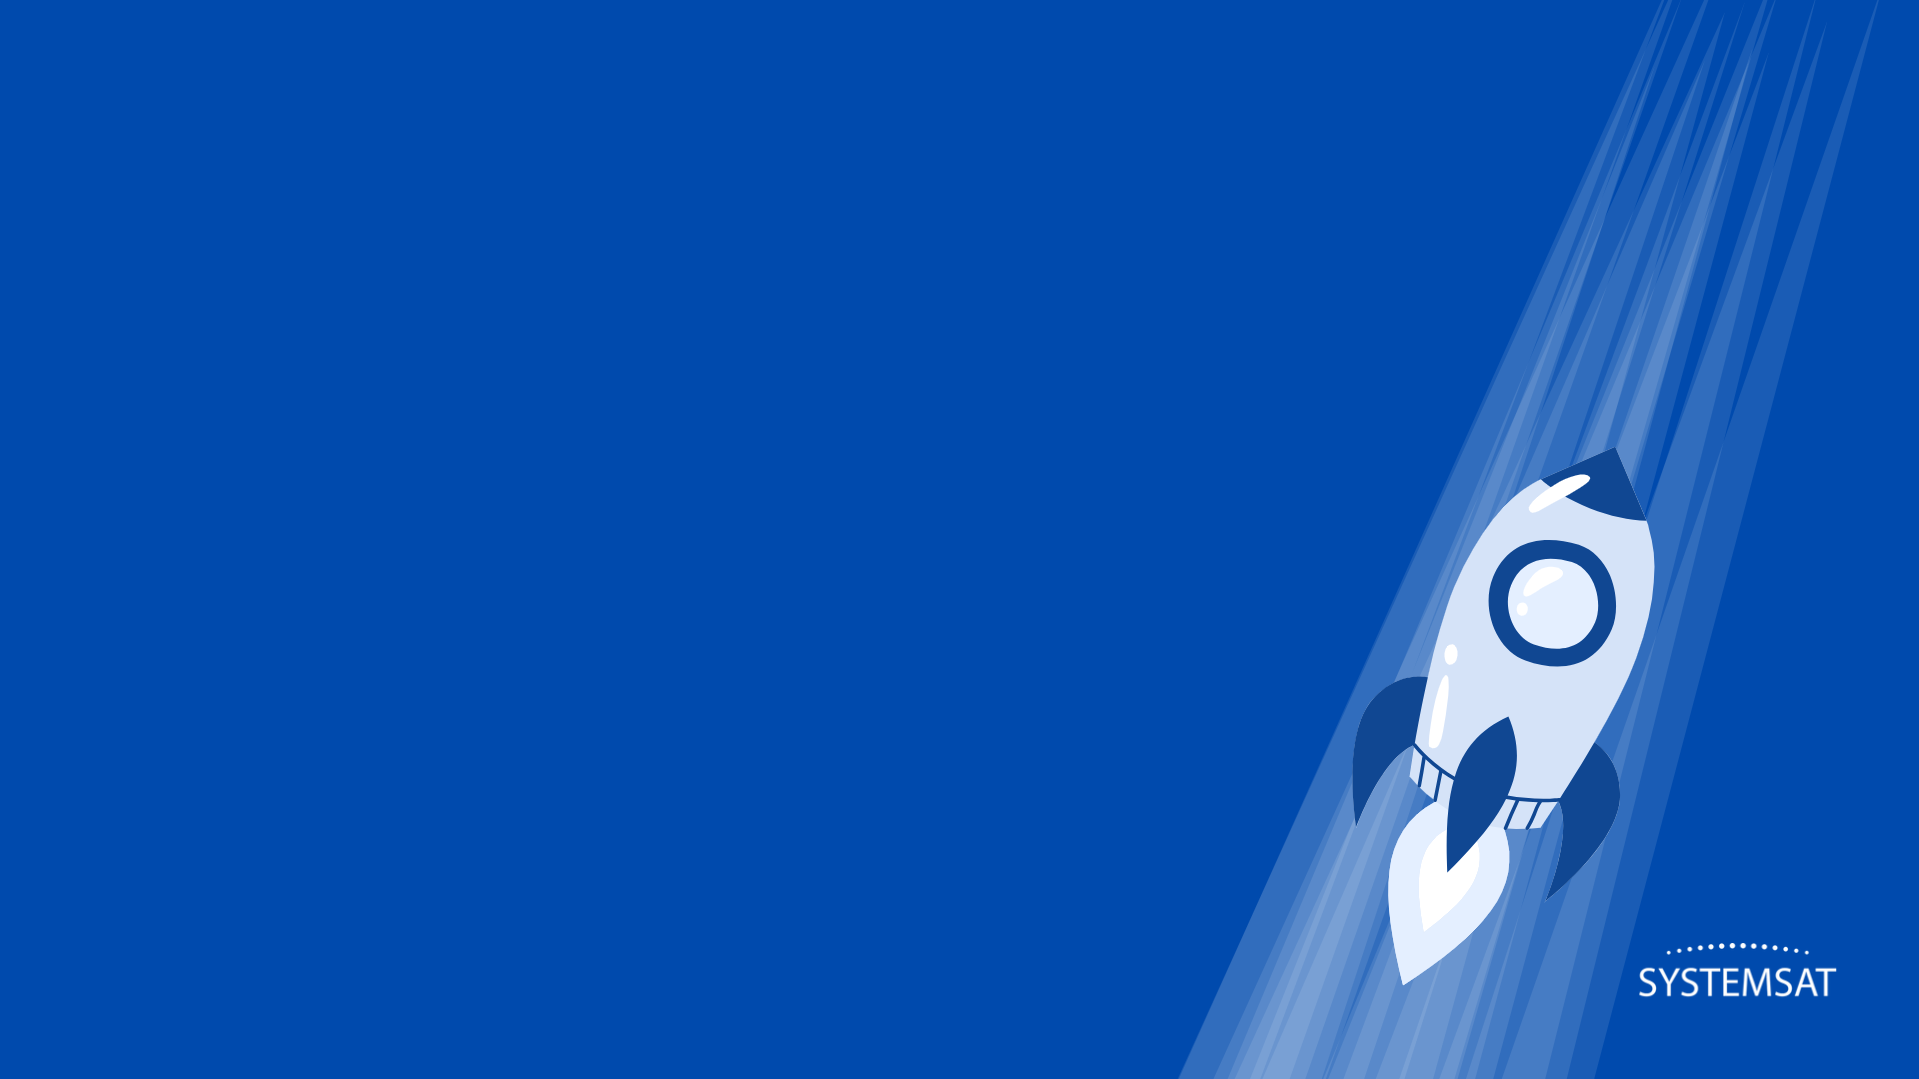
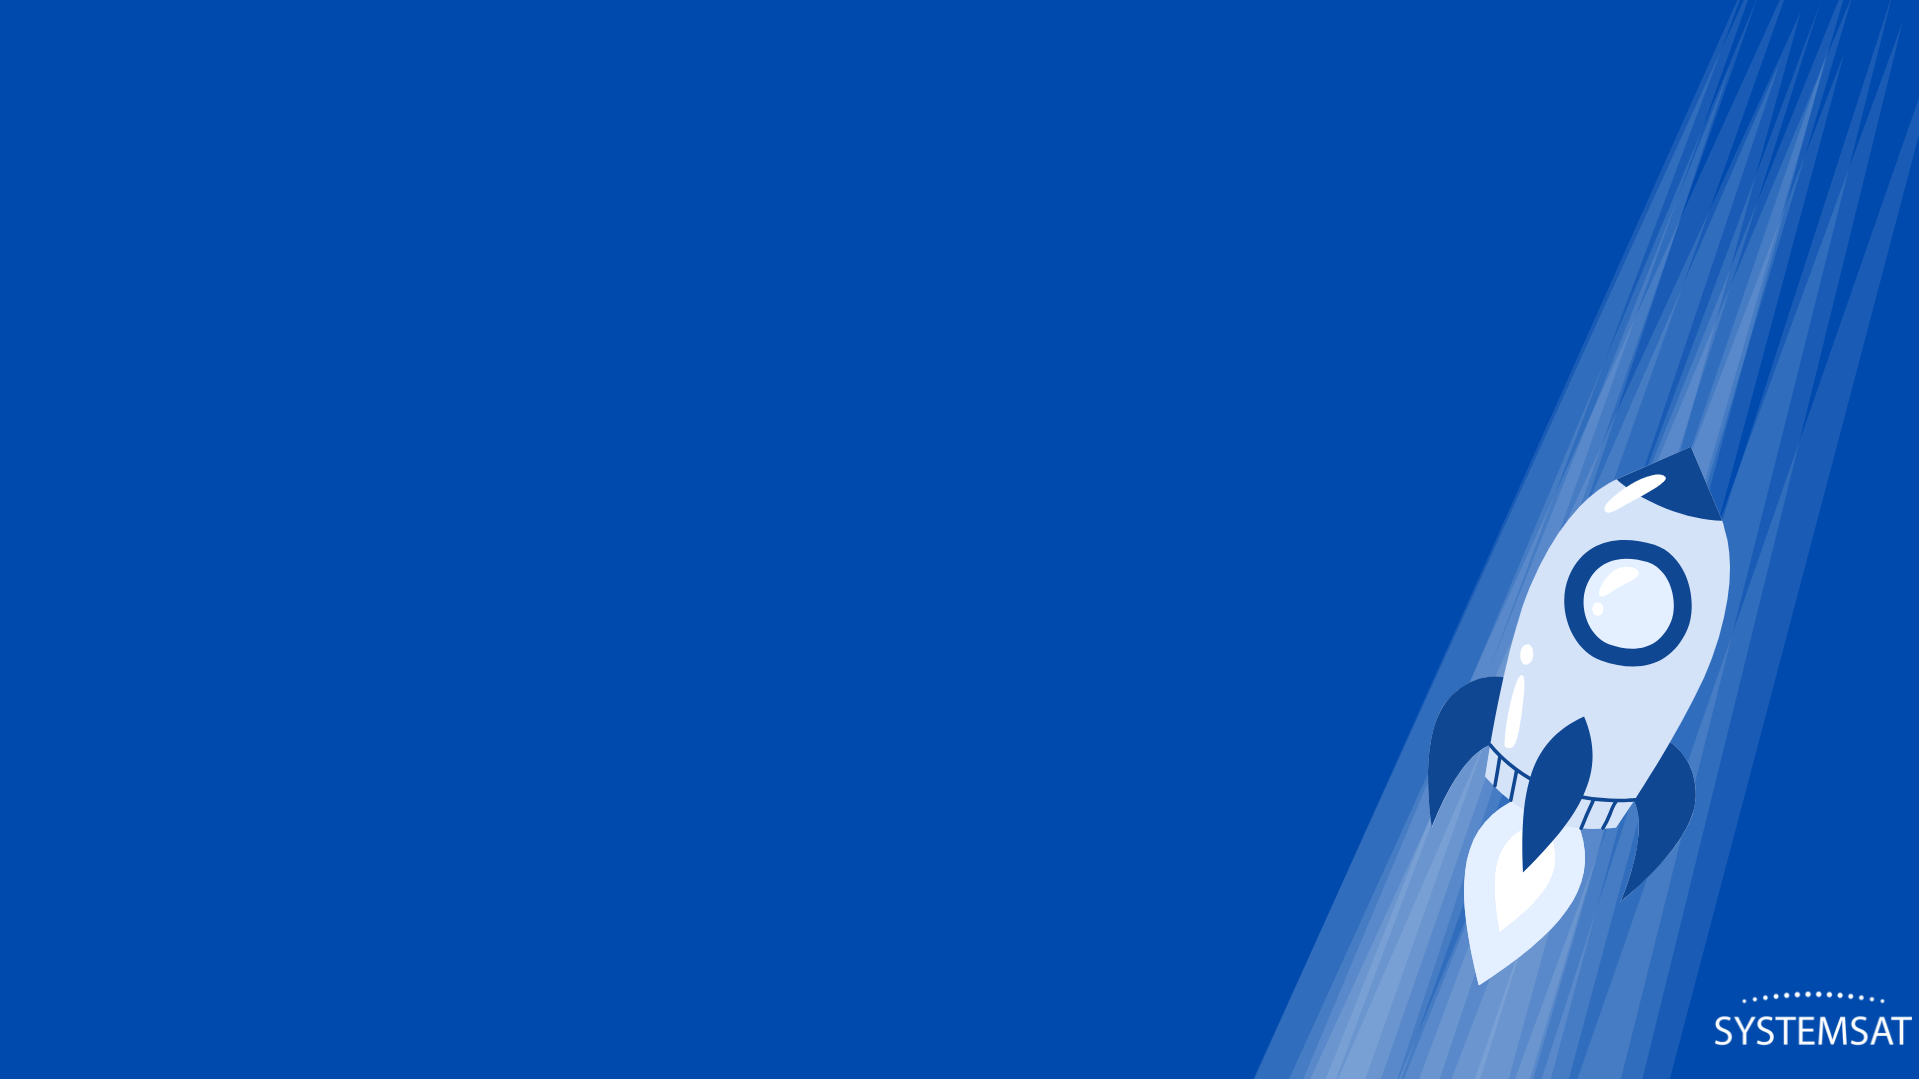
Correção na notificação de exclusão de empresa

Changed region(s): [[0.6149, 0.0, 1.0, 1.0]]

diff --git a/app/src/App.tsx b/app/src/App.tsx
@@ -242,25 +242,32 @@ function App() {
                 return;
               }
 
-              const confirmar = confirm(
-                "Deseja realmente excluir esta empresa?",
-              );
+              toast("Deseja realmente excluir esta empresa?", {
+                action: {
+                  label: "Excluir",
+                  onClick: async () => {
+                    await removerEmpresa(empresaId);
 
-              if (!confirmar) return;
+                    setEmpresaId("");
+                    setNomeEmpresa("");
+                    setTemaText("");
+                    setDataText("");
+                    setCurrentPhase(0);
 
-              await removerEmpresa(empresaId);
+                    const lista = await listarEmpresas();
+                    setEmpresas(lista);
 
-              setEmpresaId("");
-              setNomeEmpresa("");
-              setTemaText("");
-              setDataText("");
+                    toast.success("Empresa removida com sucesso!");
+                  },
+                },
 
-              const lista = await listarEmpresas();
-              setEmpresas(lista);
+                cancel: {
+                  label: "Cancelar",
+                  onClick: () => {},
+                },
 
-              console.log("empresaId antes de excluir:", empresaId);
-
-              alert("Empresa removida!");
+                duration: 10000,
+              });
             }}
           >
             Excluir empresa